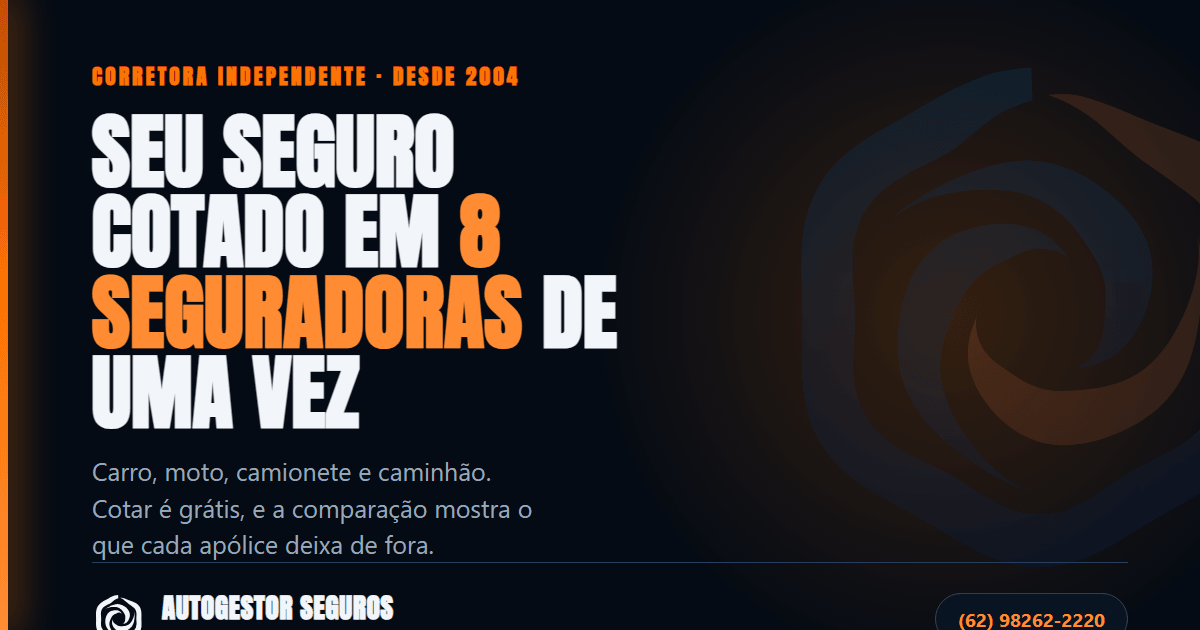
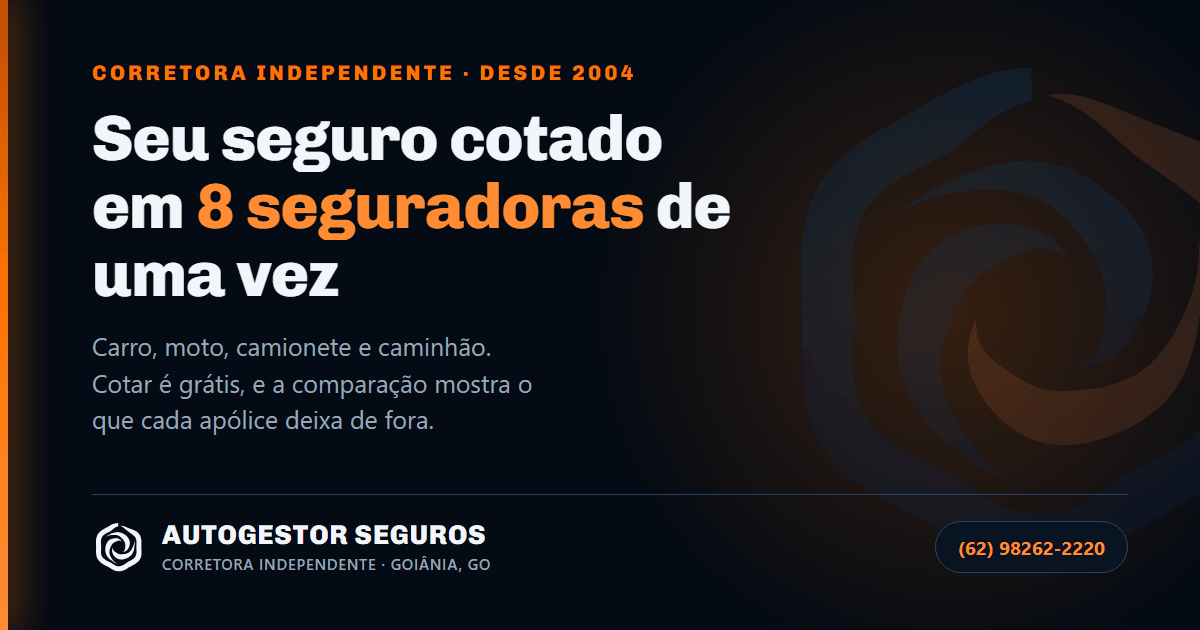
Swap poster display font for a normal-width grotesque
Third font on this site, and the first that is not a poster face. Big
Shoulders Display and then Anton were both rejected by the owner for the
same reason ("muito exagerada"), and both were the same bet: max-weight
condensed, all caps, 5.25rem. The problem was the class of letter, not
the family, so this changes the class.

Chivo 800, and three things move together because none of them fixes it
alone: the family, the case (h1/h2 drop text-transform: uppercase) and
the scale (--t-3xl 5.25rem -> 3.5rem, --t-2xl 3rem -> 2.25rem). The
scale had to come down: Chivo takes 98.8% of the system stack width
against Anton's 90.9%, so keeping 5.25rem would push the lead form below
the fold. Tracking flips from +0.005em to -0.015em and line-height goes
1.02 -> 1.08 for the descenders that mixed case brings back.

The metric-matched fallback was re-measured, not guessed, and its local()
stack drops Arial Narrow — a condensed fallback for a normal-width face
is worse than none. CLS stays 0.000 and the font is lighter: 14.9 KB
against 18.6 KB.

Design review after the swap, and what it found:

- .estacao__n was 3.5rem, which now tied the h1 and ran 1.55x the h2 it
  labels. The station was being announced by its digit instead of its
  subject. Down to 2.5rem.
- The home meta description was 208 characters. Google cuts at ~155, and
  what was being cut is the after-sale service — the argument that
  separates a broker from a price comparator. /sobre and /termos had the
[…]

diff --git a/src/styles/global.css b/src/styles/global.css
@@ -32,16 +32,21 @@
    banda escura não ser gosto. */
 
 /* Fallback de métrica casada da fonte de exibição. Os quatro números saem de
-   `node logos/metricas-fonte.mjs` (Anton 3137.30px contra 3453.17px da pilha
-   do sistema, na frase do H1, peso 400 — a única variação que a Anton tem)
-   — nenhum é estimado. Sem isto o H1 rebobina a quebra de linha quando a
-   fonte troca, e é CLS na primeira tela da página de captação. */
+   `node logos/metricas-fonte.mjs` (Chivo 3757.80px contra 3803.37px da pilha
+   do sistema, na frase do H1, peso 800) — nenhum é estimado. Sem isto o H1
+   rebobina a quebra de linha quando a fonte troca, e é CLS na primeira tela
+   da página de captação.
+
+   A pilha local mudou junto com a família: enquanto a capa era condensada
+   (Big Shoulders, depois Anton) ela começava por Arial Narrow. Com uma
+   grotesca de largura normal, o desvio caiu de 9,1% para 1,2% — o fallback
+   agora é quase a própria fonte, que é o melhor caso deste mecanismo. */
 @font-face {
   font-family: "Capa fallback";
-  src: local("Arial Narrow"), local("Roboto Condensed"), local("Segoe UI"), local("Roboto"), local("Arial");
-  size-adjust: 90.9%;
-  ascent-override: 129.9%;
-  descent-override: 36.3%;
+  src: local("Segoe UI"), local("Roboto"), local("Helvetica Neue"), local("Arial");
+  size-adjust: 98.8%;
+  ascent-override: 95.1%;
+  descent-override: 25.3%;
   line-gap-override: 0%;
 }
 
@@ -162,25 +167,37 @@
      Outfit é do coopluz, e um site que existe para não parecer os irmãos não
      pode começar pela mesma letra.
 
-     Anton troca a Big Shoulders Display por outra condensada de peso forte,
-     de propósito (peça do dono, 25/08/2026: "não gostei da fonte"). Ela é
-     mais estreita que a pilha do sistema, só que menos que a família
-     anterior — medida, ocupa 90,9% contra os 75,3% da Big Shoulders — então
-     o H1 tem menos folga antes de quebrar de linha num notebook de 900px do
-     que tinha antes. Se `node logos/verificar.mjs` mostrar o formulário
-     empurrado para fora da primeira tela, é aqui ou em `--t-3xl` que se
-     ajusta, não decorando por cima. Anton só existe em um peso (a variação
-     "black" já é a regular) — não há 400..800 para escalar como havia na
-     Big Shoulders. */
-  --display: "Anton", "Capa fallback", ui-sans-serif, system-ui, sans-serif;
+     TERCEIRA FONTE, E A PRIMEIRA QUE NÃO É DE CARTAZ. Big Shoulders Display e
+     depois Anton foram recusadas pelo dono (25/08/2026: "muito exagerada"), e
+     as duas eram a mesma aposta — condensada de peso máximo, caixa alta, 5.25
+     rem. O que incomodava não era a família, era a CLASSE de letra: título de
+     pôster numa página cujo trabalho é fazer alguém confiar dinheiro a uma
+     corretora. Chivo é grotesca de largura normal: tem peso e tem osso, mas
+     não grita. O gesto da página (o rastro) e o laranja da marca voltam a ser
+     o que dá impacto — antes eles competiam com a própria letra.
+
+     Três coisas mudaram JUNTAS e nenhuma sozinha resolve: a família, a caixa
+     (H1/H2 saíram de `uppercase` para caixa mista, ver abaixo) e o tamanho
+     (--t-3xl caiu de 5.25rem para 3.5rem, porque a Chivo ocupa 98,8% da
+     largura da pilha do sistema contra os 90,9% da Anton e os 75,3% da Big
+     Shoulders — medido em logos/metricas-fonte.mjs, não estimado). Manter
+     5.25rem com esta largura enterraria o formulário abaixo da dobra num
+     notebook de 900px.
+
+     Chivo é variável (300..900); o site pede só o peso 800, que é o único que
+     usa — inclusive na sobrancelha `.olho`, que era 700 e virou 800 para não
+     obrigar uma segunda instância na requisição. */
+  --display: "Chivo", "Capa fallback", ui-sans-serif, system-ui, sans-serif;
   --corpo: ui-sans-serif, system-ui, -apple-system, "Segoe UI", Roboto, "Helvetica Neue", Arial, sans-serif;
 
   --t-sm: 0.875rem;
   --t-base: 1rem;
   --t-lg: 1.125rem;
   --t-xl: clamp(1.375rem, 1.15rem + 1vw, 1.75rem);
-  --t-2xl: clamp(1.875rem, 1.3rem + 2.6vw, 3rem);
-  --t-3xl: clamp(2.75rem, 1.4rem + 6.2vw, 5.25rem);
+  /* O H2 desceu junto com o H1: com o H1 em 3.5rem, um H2 de 3rem deixava os
+     dois níveis a um passo de distância e a hierarquia sumia. */
+  --t-2xl: clamp(1.625rem, 1.25rem + 1.7vw, 2.25rem);
+  --t-3xl: clamp(2.25rem, 1.35rem + 4vw, 3.5rem);
 
   /* --- espaço, raio, sombra, tempo ------------------------------------- */
   --e-1: 0.25rem;
@@ -243,19 +260,25 @@ svg {
 }
 
 /* --------------------------------------------------------- tipografia */
+/* Caixa MISTA, e isso é metade da correção da fonte: caixa alta num H1 de 72
+   caracteres é o que fazia a primeira tela gritar, e ainda custa legibilidade
+   — sem ascendente nem descendente, a palavra perde a silhueta que o olho usa
+   para reconhecê-la sem soletrar. A caixa alta continua onde ela é rótulo e
+   não frase: sobrancelha, botão, lockup, cabeçalho de tabela. */
 h1,
 h2,
 h3 {
   font-family: var(--display);
   font-weight: 800;
-  line-height: 1.02;
-  /* A Big Shoulders é condensada e tem contraforma apertada: sem abrir o
-     tracking, o título grande fecha e vira mancha. Positivo, e não o negativo
-     de praxe em grotesca larga. */
-  letter-spacing: 0.005em;
+  /* 1.08 e não os 1.02 de antes: caixa mista tem descendente, e 1.02 fazia o
+     "g" de "seguro" encostar na linha seguinte. */
+  line-height: 1.08;
+  /* Negativo agora, e não o positivo de antes: aquele tracking aberto existia
+     para a contraforma apertada da condensada. Grotesca de largura normal em
+     corpo grande pede o contrário — sem fechar, as palavras do H1 boiam. */
+  letter-spacing: -0.015em;
   text-wrap: balance;
   margin: 0 0 var(--e-4);
-  text-transform: uppercase;
 }
 
 h1 {
@@ -266,8 +289,8 @@ h2 {
 }
 h3 {
   font-size: var(--t-xl);
-  text-transform: none;
-  letter-spacing: 0;
+  /* O -0.015em do bloco acima é calibrado para 56px; a 24px ele aperta. */
+  letter-spacing: -0.005em;
 }
 
 p {
@@ -289,7 +312,7 @@ p {
 .olho {
   display: block;
   font-family: var(--display);
-  font-weight: 700;
+  font-weight: 800;
   font-size: var(--t-sm);
   letter-spacing: 0.18em;
   text-transform: uppercase;
@@ -454,12 +477,18 @@ a:hover {
 }
 
 /* O número da estação. É o marcador que o rastro acende ao passar: nasce
-   apagado (só contorno) e preenche quando a seção entra na janela. */
+   apagado (só contorno) e preenche quando a seção entra na janela.
+
+   2.5rem e não os 3.5rem de antes. O número é MARCADOR, não título, e precisa
+   ficar abaixo do H2 que ele acompanha. Enquanto o H1 tinha 5.25rem e o H2
+   3rem esses 3.5rem passavam; com a escala nova (H1 3.5rem, H2 2.25rem) o
+   número empatava com o H1 da capa e era 1.55x o título da própria seção —
+   a estação passava a ser anunciada pelo algarismo em vez do assunto. */
 .estacao__n {
   display: block;
   font-family: var(--display);
   font-weight: 800;
-  font-size: 3.5rem;
+  font-size: 2.5rem;
   line-height: 1;
   letter-spacing: 0.02em;
   margin-bottom: var(--e-4);

diff --git a/src/data/solucoes.ts b/src/data/solucoes.ts
@@ -41,8 +41,12 @@ export const SEGURO: Solucao = {
   curto: "Seguro",
   resumo: "Cotação de carro, moto, camionete e caminhão comparada entre seguradoras, com assistência 24h.",
   titulo: "Seguro de carro, moto e caminhão comparado entre seguradoras | Autogestor Seguros",
+  // 155 caracteres é o teto: acima disso o Google corta, e o que estava sendo
+  // cortado desta linha era justamente o serviço pós-venda (assistência e
+  // acompanhamento do sinistro) — o argumento que separa corretora de
+  // comparador de preço. Ele foi movido para o começo da segunda frase.
   descricao:
-    "Corretora com registro SUSEP desde 2004. Comparamos seguro e proteção veicular para carro, moto, camionete e caminhão entre as principais companhias, com assistência 24h nacional e acompanhamento do sinistro.",
+    "Corretora com registro SUSEP desde 2004. Cotamos seguro e proteção veicular de carro, moto e caminhão em várias companhias e cuidamos do seu sinistro.",
   abrangencia: "BR",
   campo: { rotulo: "Marca e modelo do veículo", exemplo: "ex.: Onix 2021" },
   cta: "Quero minha cotação",
